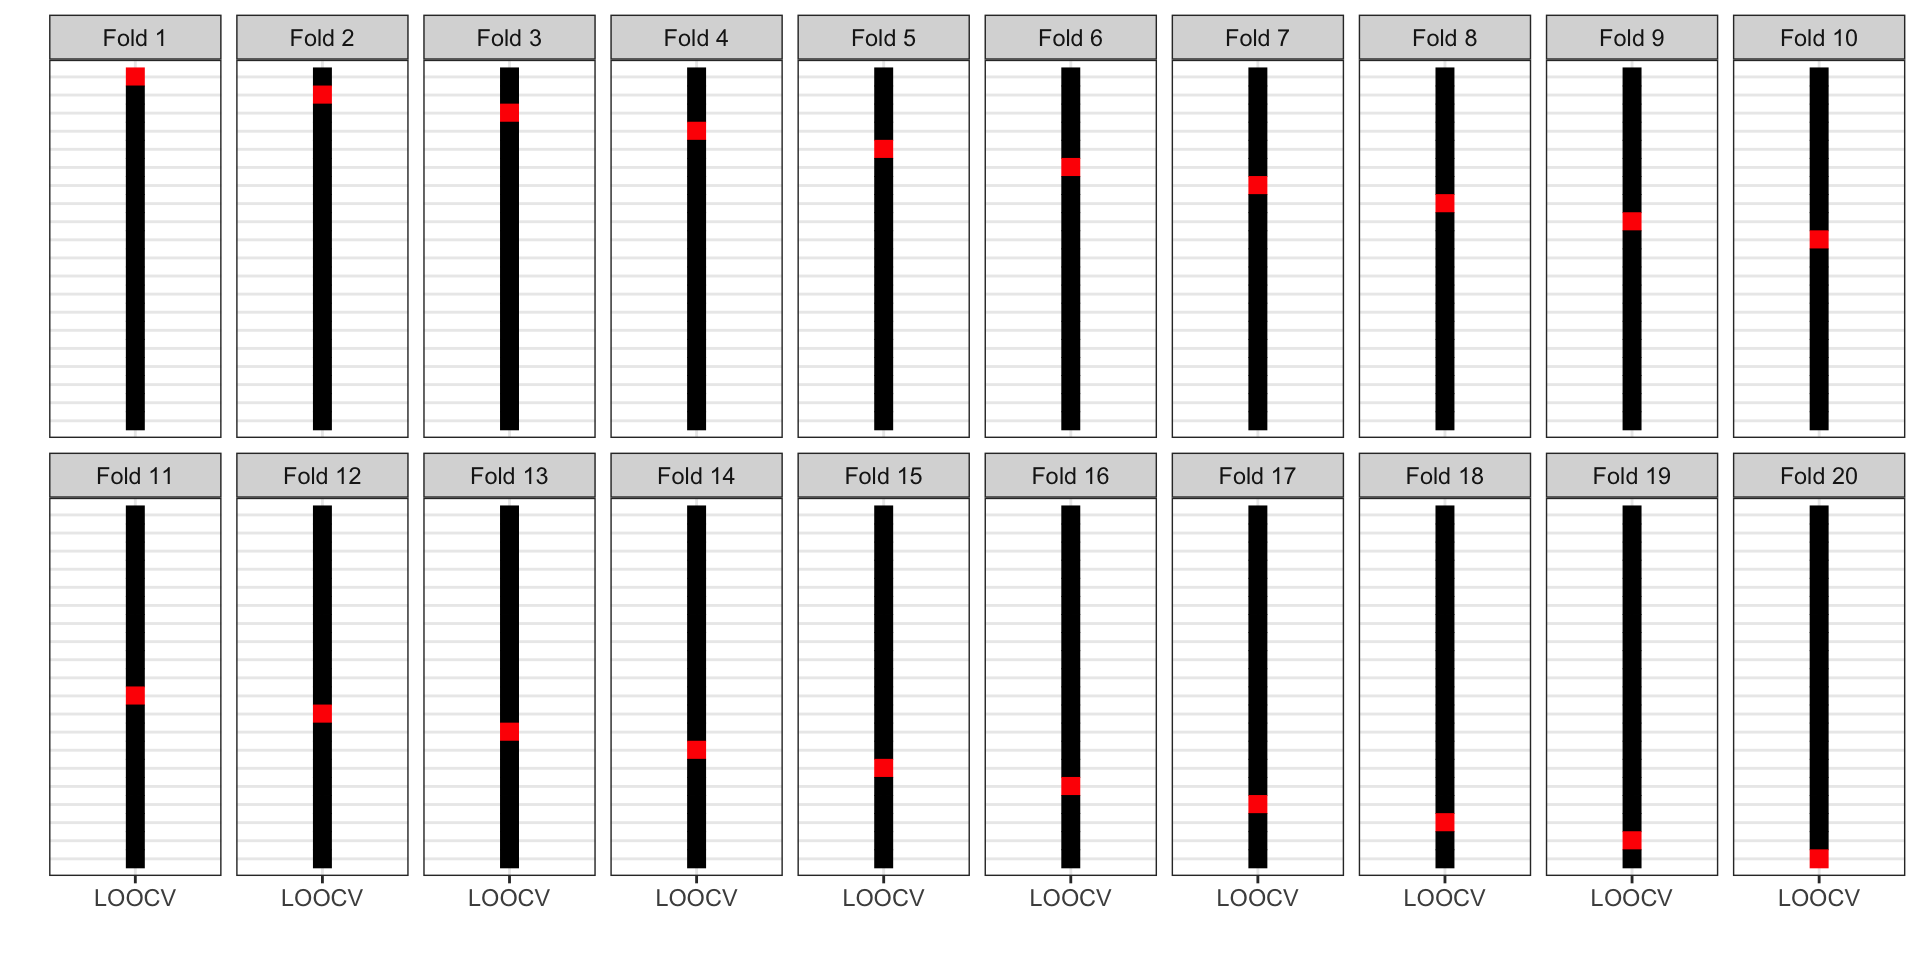
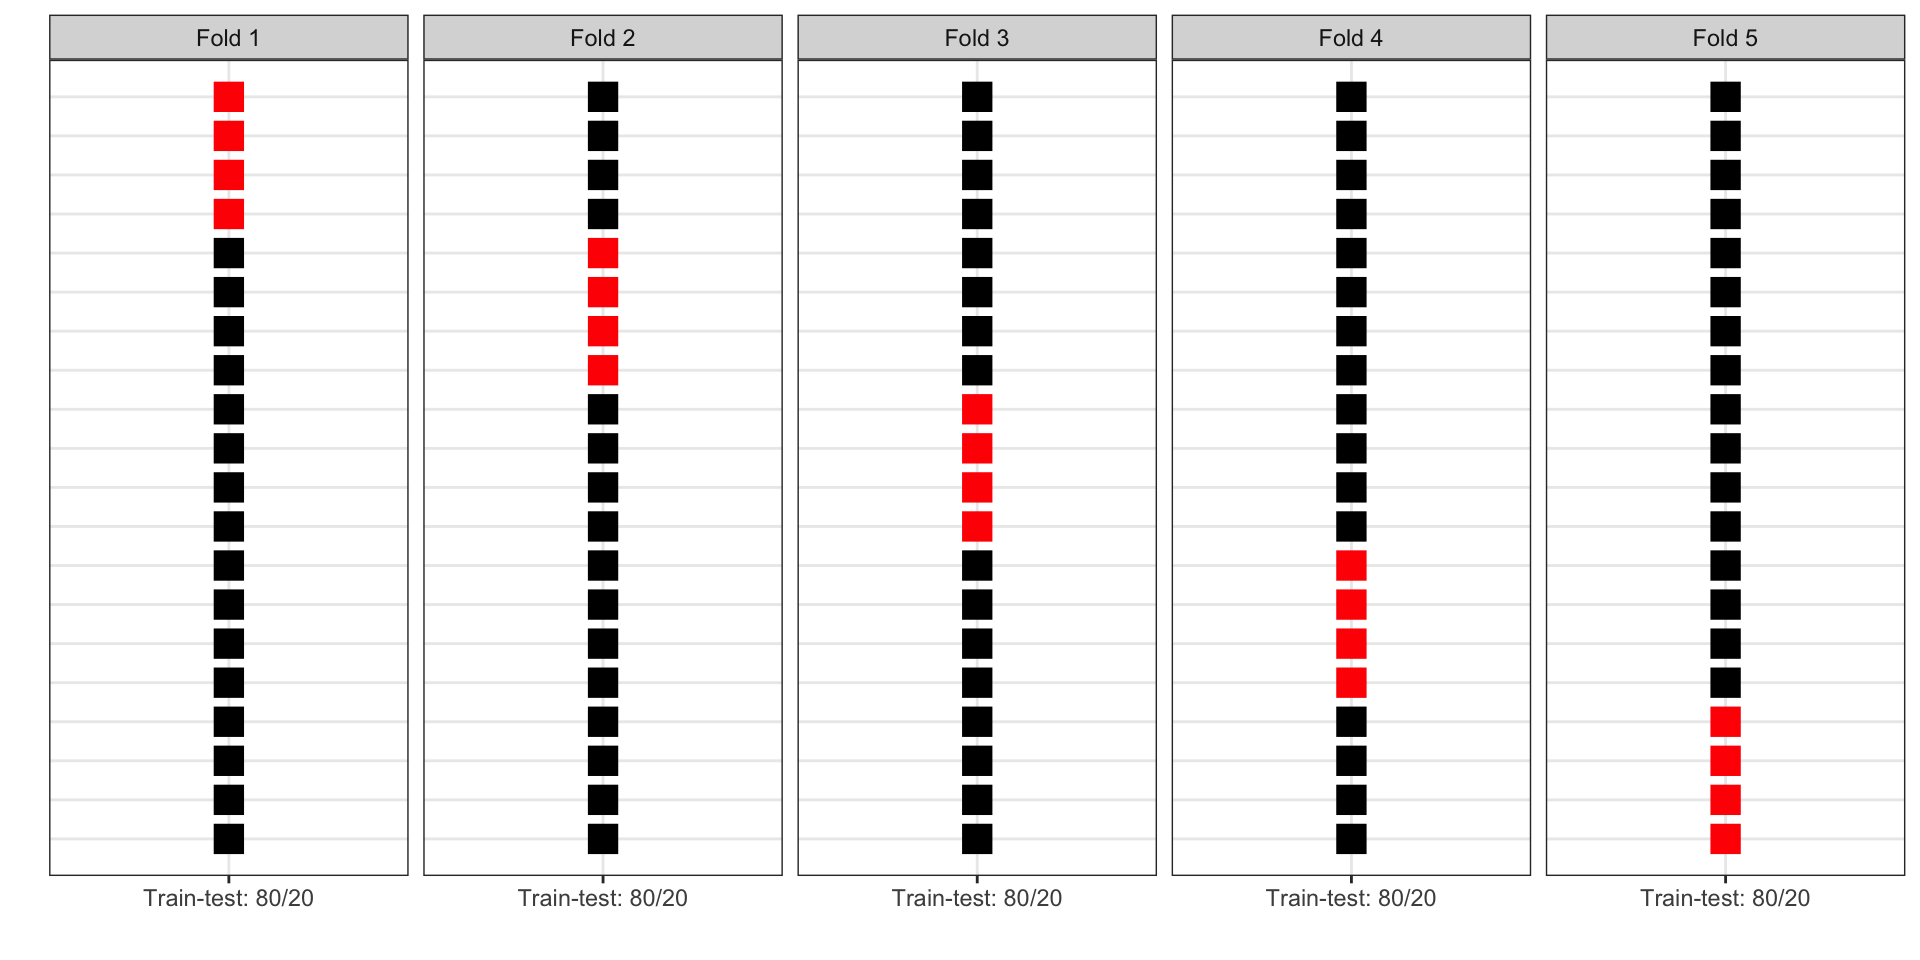
Updates from sunday

Changed region(s): [[0.0, 0.0, 1.0, 0.9688]]

diff --git a/index.html b/index.html
@@ -276,22 +276,48 @@ Which model should I choose?
 <div class="columns">
 <div class="column" style="width:60%;">
 <p>What are the trade-offs?</p>
-<ul>
-<li>Low proportion of training data</li>
-<li>Low proportion of test data</li>
-</ul>
-<p>Considerations</p>
-<ul>
-<li>Small sample sizes</li>
-<li>Purpose of validation</li>
-<li>Test set selection</li>
-</ul>
+<div class="fragment fade-in-then-out">
+<p><span class="math inline">\(\uparrow\)</span> <strong>training</strong> set</p>
+</div>
+<div class="fragment fade-in">
+<p><span class="math inline">\(\uparrow\)</span> <span style="color:red;"><strong>test set</strong></span></p>
+</div>
 </div><div class="column" style="width:40%;">
 <div class="cell">
 <div class="cell-output-display">
 <div>
 <figure>
 <p><img data-src="index_files/figure-revealjs/unnamed-chunk-9-1.png" width="384"></p>
+</figure>
+</div>
+</div>
+</div>
+</div></div>
+</section>
+<section id="train-test-data-splits-3" class="slide level2">
+<h2>Train-test data splits</h2>
+<div class="columns">
+<div class="column" style="width:60%;">
+<p>Considerations</p>
+<ul>
+<li class="fragment">Limits from small sample sizes</li>
+<li class="fragment">Purpose of validation
+<ul>
+<li class="fragment">Prediction</li>
+<li class="fragment">Model assessment</li>
+</ul></li>
+<li class="fragment">Test set selection
+<ul>
+<li class="fragment">Random</li>
+<li class="fragment">Ordered data</li>
+</ul></li>
+</ul>
+</div><div class="column" style="width:40%;">
+<div class="cell">
+<div class="cell-output-display">
+<div>
+<figure>
+<p><img data-src="index_files/figure-revealjs/unnamed-chunk-10-1.png" width="384"></p>
 </figure>
 </div>
 </div>
@@ -307,11 +333,11 @@ Which model should I choose?
 <h2>k-fold cross-validation</h2>
 <p>Duplicate data into <span class="math inline">\(k\)</span> “folds”: <strong>training sets</strong> and <span style="color:red;"><strong>test sets</strong></span></p>
 
-<img data-src="index_files/figure-revealjs/unnamed-chunk-10-1.png" width="960" class="r-stretch"></section>
+<img data-src="index_files/figure-revealjs/unnamed-chunk-11-1.png" width="960" class="r-stretch"></section>
 <section id="leave-one-out-cross-validation-kn" class="slide level2">
 <h2>Leave-one-out cross-validation <span class="math inline">\(k=n\)</span></h2>
 
-<img data-src="index_files/figure-revealjs/unnamed-chunk-11-1.png" width="960" class="r-stretch"></section>
+<img data-src="index_files/figure-revealjs/unnamed-chunk-12-1.png" width="960" class="r-stretch"></section>
 <section id="cross-validation-workflow" class="slide level2">
 <h2>Cross-validation workflow</h2>
 <div class="cell" data-reveal="true" data-layout-align="default">
@@ -354,16 +380,17 @@ Which model should I choose?
 </section>
 <section id="summary" class="slide level2">
 <h2>Summary</h2>
+<p>CV <span class="math inline">\(\approx\)</span> out-of-sample validation using <strong>all</strong> the data</p>
 <ul>
-<li class="fragment"><p>CV <span class="math inline">\(\approx\)</span> out-of-sample validation using <strong>all</strong> the data</p></li>
-<li class="fragment"><p>CV is model agnostic</p></li>
-<li class="fragment"><p>CV used for model selection</p>
+<li class="fragment"><p>Model agnostic</p></li>
+<li class="fragment"><p>Used for model selection</p>
 <ul>
 <li class="fragment">hyper-parameter tuning for machine learning methods</li>
 </ul></li>
-<li class="fragment"><p>CV complements your data science toolbox</p>
+<li class="fragment"><p>Complements your data science toolbox</p>
 <ul>
 <li class="fragment">does not replace assumption checking</li>
+<li class="fragment">no longer true “external validation”</li>
 </ul></li>
 <li class="fragment"><p>Many extensions</p>
 <ul>
